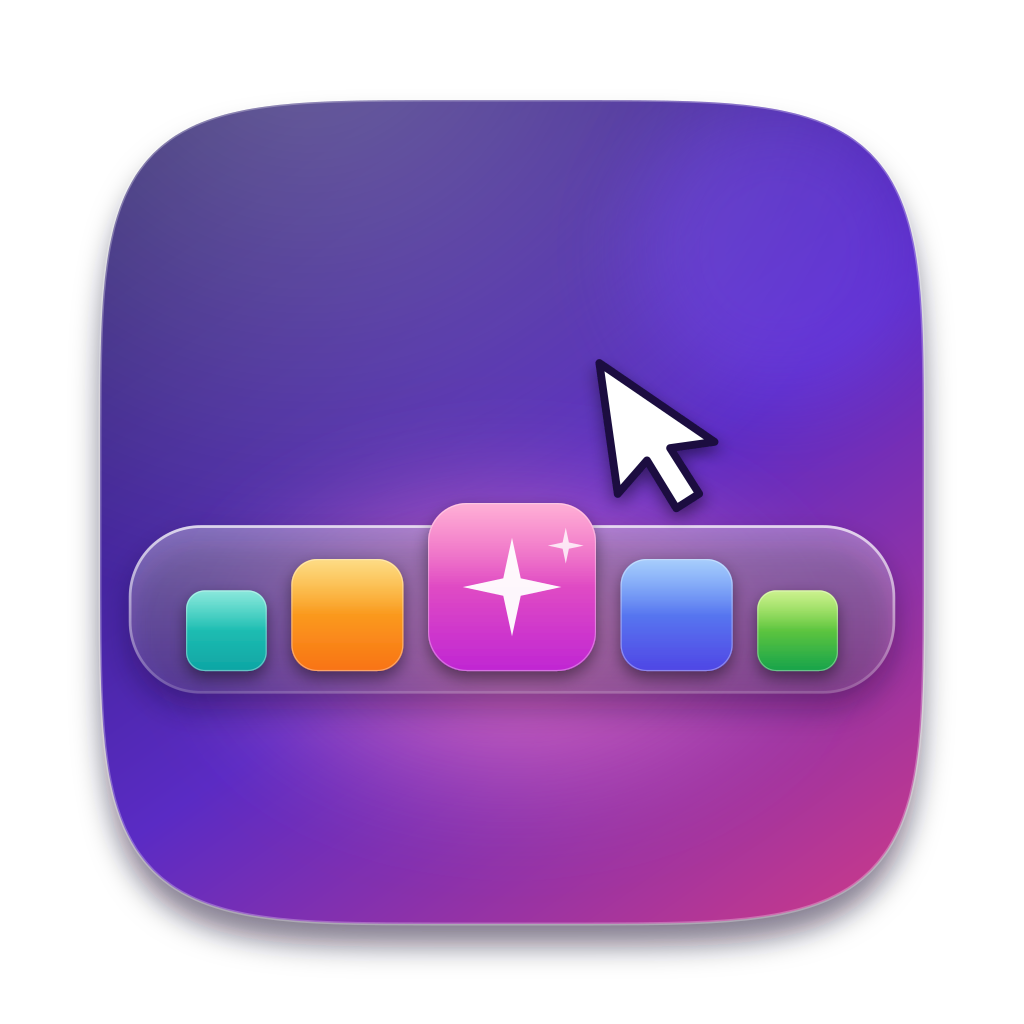
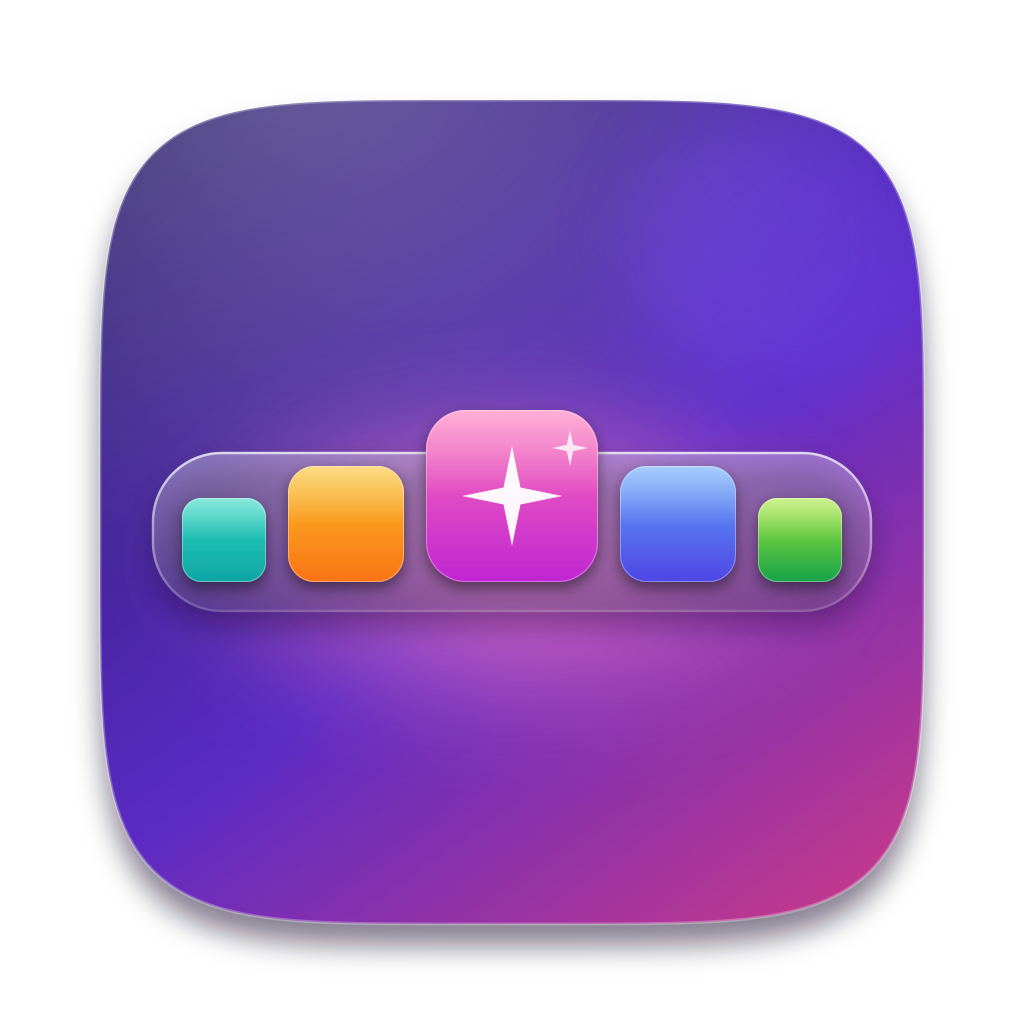
Icoon: cursor weg, iconen groter
Claude-Session: https://claude.ai/code/session_011swDizBkBXYrYrDmSYmWQW

Changed region(s): [[0.125, 0.3438, 0.875, 0.7812]]

diff --git a/Resources/make-icon.py b/Resources/make-icon.py
@@ -9,8 +9,8 @@ def squircle(cx,cy,r,n=5,steps=360):
         pts.append(f"{x:.1f},{y:.1f}")
     return "M"+" L".join(pts)+"Z"
 body=squircle(512,512,412)
-tiles=[(221,72,'#2dd4bf','#0ea5a4'),(315,100,'#fbbf24','#f97316'),(437,150,'#ff6fb5','#c026d3'),(609,100,'#60a5fa','#4f46e5'),(731,72,'#a3e635','#16a34a')]
-bottom=690
+tiles=[(182,84,'#2dd4bf','#0ea5a4'),(288,116,'#fbbf24','#f97316'),(426,172,'#ff6fb5','#c026d3'),(620,116,'#60a5fa','#4f46e5'),(758,84,'#a3e635','#16a34a')]
+bottom=700
 t=""
 for x,s,a,b in tiles:
     y=bottom-s; r=s*0.23
@@ -46,19 +46,16 @@ svg=f'''<svg xmlns="http://www.w3.org/2000/svg" viewBox="0 0 1024 1024" width="1
 <path d="{body}" fill="url(#bg)"/>
 <g clip-path="url(#clip)">
  <rect width="1024" height="1024" fill="url(#top)"/>
- <ellipse cx="512" cy="640" rx="330" ry="200" fill="url(#glow)" filter="url(#soft)"/>
+ <ellipse cx="512" cy="560" rx="360" ry="190" fill="url(#glow)" filter="url(#soft)"/>
  <circle cx="780" cy="250" r="150" fill="#7c4dff" opacity=".35" filter="url(#soft)"/>
 </g>
-<g transform="translate(512,512) scale(1.12) translate(-512,-548)">
-<rect x="170" y="560" width="684" height="150" rx="64" fill="#0a0420" opacity=".35" filter="url(#sh)" transform="translate(0,14)"/>
-<rect x="170" y="560" width="684" height="150" rx="64" fill="url(#pill)"/>
-<rect x="171" y="561" width="682" height="148" rx="63" fill="none" stroke="url(#pillStroke)" stroke-width="2.5"/>
+<g transform="translate(512,512) scale(1.0) translate(-512,-630)">
+<rect x="152" y="570" width="720" height="160" rx="70" fill="#0a0420" opacity=".35" filter="url(#sh)" transform="translate(0,14)"/>
+<rect x="152" y="570" width="720" height="160" rx="70" fill="url(#pill)"/>
+<rect x="153" y="571" width="718" height="158" rx="69" fill="none" stroke="url(#pillStroke)" stroke-width="2.5"/>
 <g filter="url(#ds)">{t}</g>
-<path d="{star(512,615,44,11)}" fill="#fff" opacity=".95"/>
-<path d="{star(560,578,16,4)}" fill="#fff" opacity=".8"/>
-<g transform="translate(590,415) rotate(-8)" filter="url(#ds)">
- <path d="M0,0 L0,118 L30,92 L50,138 L72,128 L52,84 L92,84 Z" fill="#fff" stroke="#1a1040" stroke-width="7" stroke-linejoin="round"/>
-</g>
+<path d="{star(512,614,50,12)}" fill="#fff" opacity=".95"/>
+<path d="{star(570,566,18,4.5)}" fill="#fff" opacity=".8"/>
 </g>
 <path d="{body}" fill="none" stroke="#fff" stroke-opacity=".28" stroke-width="3"/>
 </svg>'''
